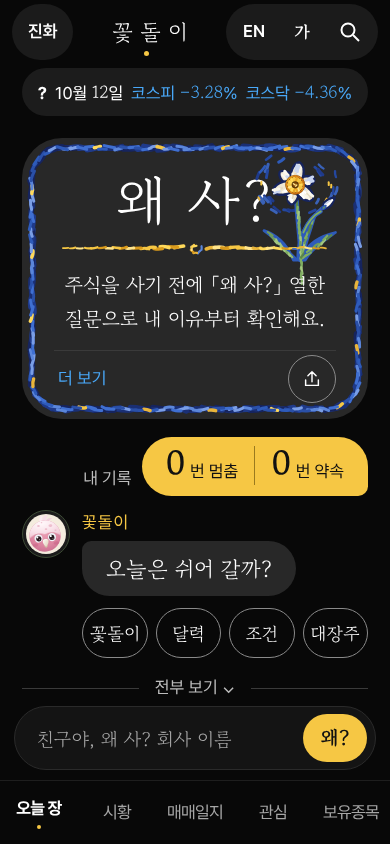
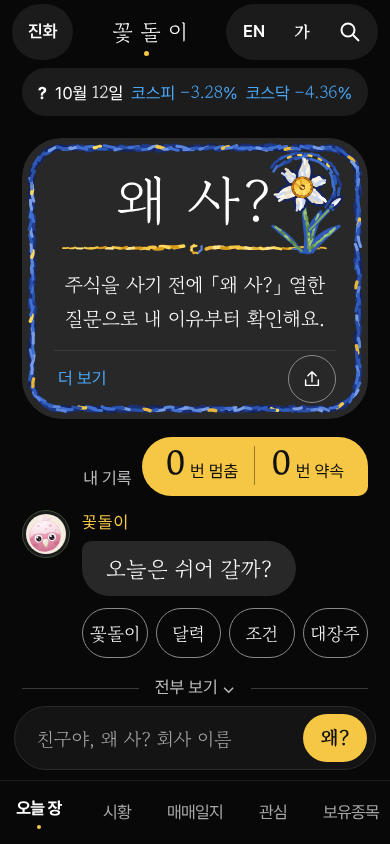
고흐 잣대 석 장 끝 — 별 밤 · 붓 자국 · 목판화
Claude-Session: https://claude.ai/code/session_01NCpyR4ELc71hqitZJpUS2Z

Changed region(s): [[0.6462, 0.154, 0.8923, 0.3389]]

diff --git a/docs/design/kakao-2026-10-19/mock/g2.html b/docs/design/kakao-2026-10-19/mock/g2.html
@@ -40,7 +40,7 @@ button,input{font:inherit;color:inherit;background:none;border:0}
 .plate .frame>*:not(.brush){position:relative}
 .plate .big{display:block;font-size:56px;line-height:1;color:#FFFFFF;letter-spacing:.04em}
 .plate .head{position:relative}
-.plate .flower{position:absolute;right:-18px;bottom:15px;width:92px;height:92px;overflow:visible}
+.plate .flower{position:absolute;right:-20px;bottom:2px;width:100px;height:100px;z-index:1;overflow:visible}
 .plate .rule{display:block;height:16px;margin:12px auto 12px;position:relative}
 .plate .rule svg{position:absolute;inset:0;width:100%;height:100%;overflow:visible}
 .plate p[data-ess="1"]{font-size:20px;line-height:1.7;color:#FFFFFF;word-break:keep-all;max-width:15.5em;margin:0 auto}
@@ -114,7 +114,7 @@ button,input{font:inherit;color:inherit;background:none;border:0}
   .plate .frame{padding:18px 12px 0}
   .plate .big{font-size:42px}
   .plate .rule{margin:14px auto 12px}
-  .plate .flower{width:70px;height:70px;right:-8px;bottom:14px}
+  .plate .flower{width:78px;height:78px;right:-8px;bottom:2px}
   .plate p[data-ess="1"]{font-size:18px;line-height:1.5}
   .plate .foot{margin-top:12px}
   .gdr,.news ul{margin-left:0}
@@ -141,7 +141,7 @@ button,input{font:inherit;color:inherit;background:none;border:0}
     <div class="frame"><svg class="brush" aria-hidden="true" focusable="false"></svg>
       <div class="head">
         <span class="big serif">왜 사?</span>
-        <svg class="flower" viewBox="0 0 108106" aria-hidden="true" focusable="false"><g stroke-linecap="round" fill="none"><path d="M13.7 35.7Q13.5 32.5 14 29.1" stroke="#3F6FD1" stroke-width="3"/><path d="M16.2 26.2Q17.7 22.9 19.8 19.1" stroke="#2E5BBA" stroke-width="3.1"/><path d="M21.1 19.8Q22.8 17 26 14.2" stroke="#24479F" stroke-width="3.2"/><path d="M25.5 12Q28.5 9.4 31.9 7.5" stroke="#24479F" stroke-width="3.1"/><path d="M33.3 8.5Q36.9 7 39.4 5.3" stroke="#2E5BBA" stroke-width="2.9"/><path d="M40.5 4.1Q43.7 2.5 47 2.2" stroke="#3F6FD1" stroke-width="2.9"/><path d="M49.4 5Q52.9 4.4 56.5 5.4" stroke="#24479F" stroke-width="3"/><path d="M56 4.8Q59.4 5 63 6.6" stroke="#3F6FD1" stroke-width="2.8"/><path d="M65.8 6.6Q68.9 9.5 72.1 11.5" stroke="#3F6FD1" stroke-width="3"/><path d="M73.2 11.7Q75.7 14.1 77.6 16.9" stroke="#3F6FD1" stroke-width="3"/><path d="M79 16Q82.3 18.7 83.9 22.9" stroke="#3F6FD1" stroke-width="2.6"/><path d="M82.3 24.9Q83.8 28.3 83.7 31.2" stroke="#3F6FD1" stroke-width="2.9"/><path d="M86.5 30.8Q87.8 35.2 85.9 39.5" stroke="#2E5BBA" stroke-width="3.1"/><path d="M83.6 36.9Q82.6 40.3 82.5 43.5" stroke="#3F6FD1" stroke-width="3"/></g><g stroke-linecap="round" fill="none"><path d="M82.4 46.1Q82 49.5 78.7 54" stroke="#3F6FD1" stroke-width="2.7"/><path d="M80.6 53.4Q78.1 56.8 75.9 60.7" stroke="#24479F" stroke-width="2.7"/><path d="M10.7 34.7Q12.2 30.2 11.3 26" stroke="#2E5BBA" stroke-width="2.7"/><path d="M9.9 22.3Q11.7 19 14.8 14.9" stroke="#24479F" stroke-width="3.1"/><path d="M17.6 13.7Q19.6 11.1 22.1 8" stroke="#24479F" stroke-width="3.1"/><path d="M24.7 6.6Q28.5 5.9 31 3" stroke="#1F3A8A" stroke-width="2.7"/><path d="M33.6 -0.2Q36.8 -0.7 40 -1.6" stroke="#1F3A8A" stroke-width="3"/><path d="M55.1 -0.6Q58.2 0 61.4 0.6" stroke="#24479F" stroke-width="3"/><path d="M67.1 1.7Q70 3.8 72.2 5" stroke="#24479F" stroke-width="2.8"/><path d="M74.1 5.9Q76.2 9.2 79.4 11" stroke="#2E5BBA" stroke-width="2.6"/><path d="M85.1 14.6Q85.9 17.7 87.5 20.2" stroke="#24479F" stroke-width="3.1"/><path d="M86.4 21.4Q87.5 24.7 89.1 27.2" stroke="#1F3A8A" stroke-width="2.7"/><path d="M89.4 30.6Q88.4 34.5 90.2 38.5" stroke="#24479F" stroke-width="2.7"/><path d="M91.2 43.1Q89.5 46.3 89.3 50.1" stroke="#1F3A8A" stroke-width="2.6"/></g><g stroke-linecap="round" fill="none"><path d="M88.8 51.8Q87.9 55.1 85.7 57.4" stroke="#24479F" stroke-width="2.7"/><path d="M18.3 16.7Q18.8 15.4 20.2 14.2" stroke="#F6C744" stroke-width="2.4"/><path d="M26.5 8.5Q27.7 8 29.1 6.7" stroke="#F6C744" stroke-width="2.4"/><path d="M37.2 3.1Q38.8 2.6 40.2 2.2" stroke="#FFD95A" stroke-width="2.4"/><path d="M49.1 1Q50.7 1.4 52.3 1.1" stroke="#FFD95A" stroke-width="2.4"/><path d="M61.1 2.5Q62.6 2.8 64.1 3.5" stroke="#FFD95A" stroke-width="2.4"/></g><g stroke-linecap="round"><path d="M51.5 54C53 81 57 106 56106" stroke="#2E5BBA" stroke-width="5.2" fill="none"/><path d="M48 106C40 90 28 82 18 78C30 88 38 96 52 106Z" fill="#2E5BBA" stroke="#2E5BBA" stroke-width="3" stroke-linejoin="round"/><path d="M56 106C62 90 74 82 90 78C78 88 68 96 61 106Z" fill="#2E5BBA" stroke="#2E5BBA" stroke-width="3" stroke-linejoin="round"/><path d="M53 106C52 88 58 74 70 62C67 76 61 88 58 106Z" fill="#2E5BBA" stroke="#2E5BBA" stroke-width="3" stroke-linejoin="round"/></g><g stroke-linecap="round" fill="none"><path d="M51.9 54.5Q51.7 58 51.9 61.5" stroke="#5A8748" stroke-width="2.6"/><path d="M52.9 57.4Q51.8 60.8 52.6 64.4" stroke="#7FAE62" stroke-width="2.6"/><path d="M53.6 60.3Q52.5 63.8 53.7 67.2" stroke="#5A8748" stroke-width="2.6"/><path d="M52.9 63.2Q52.4 66.7 53.8 70.1" stroke="#8DB86E" stroke-width="2.6"/><path d="M54.8 66Q55.1 69.6 53.9 73" stroke="#7FAE62" stroke-width="2.6"/><path d="M54.5 68.9Q54.1 72.4 55.3 75.9" stroke="#A3C77F" stroke-width="2.6"/><path d="M55.3 71.8Q54.3 75.2 55.2 78.7" stroke="#5A8748" stroke-width="2.6"/><path d="M55.6 74.6Q56 78.1 56.1 81.6" stroke="#7FAE62" stroke-width="2.6"/><path d="M55.5 77.5Q54.4 81 55.3 84.5" stroke="#8DB86E" stroke-width="2.6"/><path d="M56.1 80.4Q56.9 83.9 55.8 87.4" stroke="#A3C77F" stroke-width="2.6"/><path d="M56.4 83.3Q57.2 86.6 57.5 90.2" stroke="#6E9B5A" stroke-width="2.6"/><path d="M57.4 86.1Q57.7 89.5 56.6 93.1" stroke="#6E9B5A" stroke-width="2.6"/><path d="M56.9 89Q56.9 92.4 57.6 96" stroke="#6E9B5A" stroke-width="2.6"/><path d="M57.7 91.9Q58.5 95.4 57.5 98.9" stroke="#7FAE62" stroke-width="2.6"/></g><g stroke-linecap="round" fill="none"><path d="M58.1 94.8Q57.4 98.2 57.2 101.7" stroke="#5A8748" stroke-width="2.6"/><path d="M58 97.6Q58.8 101.2 57.5 104.6" stroke="#5A8748" stroke-width="2.6"/><path d="M48 103.2Q45.3 100.7 43.5 98.6" stroke="#8DB86E" stroke-width="2.4"/><path d="M45.4 101.4Q42.2 99.1 40.2 97.4" stroke="#A3C77F" stroke-width="2.4"/><path d="M41.5 98.9Q38.6 95.8 37.1 94.1" stroke="#A3C77F" stroke-width="2.4"/><path d="M38.9 95.9Q37 93.3 34.1 91.5" stroke="#A3C77F" stroke-width="2.4"/><path d="M37.1 92.9Q34 91.6 31.9 89" stroke="#7FAE62" stroke-width="2.4"/><path d="M34.3 90.1Q31.3 87.4 28.9 86.5" stroke="#6E9B5A" stroke-width="2.4"/><path d="M30.9 87.4Q27.7 85.5 25.8 83.4" stroke="#6E9B5A" stroke-width="2.4"/><path d="M27.1 82.7Q24.2 81.4 22.1 78.5" stroke="#5A8748" stroke-width="2.4"/><path d="M56 102.6Q59 101 61.2 98.6" stroke="#5A8748" stroke-width="2.4"/><path d="M60.7 101.4Q63.8 99.6 65.5 97" stroke="#7FAE62" stroke-width="2.4"/><path d="M65 98.3Q67.1 95.5 70.1 94.3" stroke="#A3C77F" stroke-width="2.4"/><path d="M67.9 95.5Q70.2 93.3 72.8 91.1" stroke="#5A8748" stroke-width="2.4"/></g><g stroke-linecap="round" fill="none"><path d="M70.2 91.5Q72 88.6 74.4 86.5" stroke="#8DB86E" stroke-width="2.4"/><path d="M74.8 88.8Q77.5 86.8 79 83.8" stroke="#6E9B5A" stroke-width="2.4"/><path d="M76.5 87.2Q79.5 85.5 81.2 82.7" stroke="#5A8748" stroke-width="2.4"/><path d="M79.9 85Q82 81.9 84.3 80.2" stroke="#7FAE62" stroke-width="2.4"/><path d="M54.7 103Q56.8 100.3 57.4 97.1" stroke="#8DB86E" stroke-width="2.4"/><path d="M57.4 97.3Q59 94.4 58.9 91" stroke="#8DB86E" stroke-width="2.4"/><path d="M59.2 92Q61.4 89.4 62.2 86.2" stroke="#A3C77F" stroke-width="2.4"/><path d="M62.4 87.6Q62.7 84.7 63.9 81.3" stroke="#7FAE62" stroke-width="2.4"/><path d="M61.7 82.7Q62.8 79.9 64.1 76.7" stroke="#A3C77F" stroke-width="2.4"/><path d="M65.5 75.8Q65.1 72.7 66.9 69.4" stroke="#6E9B5A" stroke-width="2.4"/><path d="M66.4 71.8Q68.5 68.6 69.3 66" stroke="#A3C77F" stroke-width="2.4"/></g><g stroke-linecap="round"><path d="M51 38.8C64.6 41.8 74.4 33.2 74.4 27.1C70.5 22.4 57.4 22.1 49 33.2Z" fill="#EFE7D2" stroke="#16245E" stroke-width="2.8" stroke-linejoin="round"/><path d="M54.6 37.8Q58.5 37.3 62 36.5" stroke="#FBF8EE" stroke-width="2.5"/><path d="M63.1 29.3Q65.8 28.3 68.3 26.2" stroke="#FFFFFF" stroke-width="2.6"/><path d="M66.2 27.7Q68.8 25.2 71.9 24.5" stroke="#F7F3E8" stroke-width="2.6"/><path d="M59.3 31.8Q62.3 31.7 65.2 29.9" stroke="#E6DCC2" stroke-width="2.7"/><path d="M67.9 28.6Q71.7 26.7 75.2 27.1" stroke="#E6DCC2" stroke-width="2.8"/><path d="M57.1 28.6Q59.7 27.2 62.1 26.9" stroke="#C9D6F2" stroke-width="2.5"/><path d="M57 29.8Q59.4 29.4 62.5 27.8" stroke="#FBF8EE" stroke-width="2.8"/><path d="M69.1 30.1Q71.8 29.8 74.3 29.6" stroke="#FFFFFF" stroke-width="2.4"/><path d="M57.7 32.8Q60.9 32.5 64.4 31.5" stroke="#FFFFFF" stroke-width="2.9"/><path d="M64.9 28Q67.7 25.8 70.1 24.9" stroke="#FBF8EE" stroke-width="2.9"/><path d="M69.2 31.7Q72.3 30.7 75.8 30.3" stroke="#C9D6F2" stroke-width="2.4"/><path d="M64 30.4Q67.6 29.4 71 27.6" stroke="#C9D6F2" stroke-width="2.7"/><path d="M47 35.5C37.7 45.8 40.4 58.7 45.7 61.6C51.8 60.5 58.4 49.3 53 36.5Z" fill="#EFE7D2" stroke="#16245E" stroke-width="2.8" stroke-linejoin="round"/></g><g stroke-linecap="round"><path d="M48.8 45.4Q48.3 48.3 49.2 51.3" stroke="#C9D6F2" stroke-width="2.6"/><path d="M47.7 47.6Q47.9 50.3 46.4 52.8" stroke="#E6DCC2" stroke-width="2.4"/><path d="M50.4 51Q49.5 54.3 48.3 57.9" stroke="#FFFFFF" stroke-width="2.7"/><path d="M48.8 44.8Q49.3 47.7 48.5 50.7" stroke="#FFFFFF" stroke-width="2.5"/><path d="M51.2 52Q50.2 54.4 49.9 57" stroke="#FBF8EE" stroke-width="2.4"/><path d="M44 49.2Q44.1 52.1 43.6 54.8" stroke="#C9D6F2" stroke-width="2.4"/><path d="M52.5 43.9Q52.8 47.1 53.2 50.2" stroke="#FFFFFF" stroke-width="3.1"/><path d="M45.5 41.2Q45.1 44.4 43 47.5" stroke="#FBF8EE" stroke-width="3.1"/><path d="M49.4 47.7Q49.1 50.7 49.7 53.7" stroke="#FBF8EE" stroke-width="2.9"/><path d="M46.1 54.2Q45.7 57.2 46.4 60.1" stroke="#FBF8EE" stroke-width="3.1"/><path d="M45.9 46.1Q46.5 49.2 44.8 52.4" stroke="#E6DCC2" stroke-width="2.3"/><path d="M48.4 48.2Q48.4 51.3 48.5 54.4" stroke="#C9D6F2" stroke-width="2.4"/><path d="M51.9 33.7C47.4 20.5 34.9 16.6 29.7 19.8C27.7 25.6 34.3 36.9 48.1 38.3Z" fill="#EFE7D2" stroke="#16245E" stroke-width="2.8" stroke-linejoin="round"/><path d="M48.7 30.3Q46.8 27.1 44.6 25" stroke="#FFFFFF" stroke-width="3"/></g><g stroke-linecap="round"><path d="M45.3 32.6Q41.8 31.4 39.6 28.7" stroke="#C9D6F2" stroke-width="2.8"/><path d="M36.3 22.7Q34.8 20.6 32.6 18.9" stroke="#E6DCC2" stroke-width="2.7"/><path d="M41.4 33.1Q38.8 31.1 35.7 30.8" stroke="#FBF8EE" stroke-width="3"/><path d="M36.8 23.4Q34.1 21.1 31.4 19.4" stroke="#FBF8EE" stroke-width="2.9"/><path d="M38.7 25.6Q35.2 24 32.5 21.8" stroke="#C9D6F2" stroke-width="2.9"/><path d="M47.2 29.1Q45.2 28 42.5 25.5" stroke="#FBF8EE" stroke-width="3"/><path d="M40 24.4Q36.4 23.3 34.1 21" stroke="#FFFFFF" stroke-width="2.6"/><path d="M43.2 26Q40.5 22.8 38.8 21.1" stroke="#E6DCC2" stroke-width="2.3"/><path d="M43.8 34.5Q41.2 32.2 39.2 31" stroke="#FFFFFF" stroke-width="3.1"/><path d="M43.7 25.6Q41.6 23.4 39.8 22.3" stroke="#E6DCC2" stroke-width="3"/><path d="M39.2 25.8Q37.5 24.4 35.1 21.6" stroke="#C9D6F2" stroke-width="3"/><path d="M52.9 36.6C64.3 25 61.6 10.1 55.6 6.5C48.7 7.7 40.7 20.5 47.1 35.4Z" fill="#EFE7D2" stroke="#16245E" stroke-width="2.8" stroke-linejoin="round"/><path d="M51.4 22.8Q52 19.3 52.6 16" stroke="#F7F3E8" stroke-width="2.7"/><path d="M55.8 17.8Q57.2 15.1 56.8 12.3" stroke="#E6DCC2" stroke-width="2.8"/></g><g stroke-linecap="round"><path d="M52.8 26Q52.9 22.6 54.4 19.6" stroke="#FFFFFF" stroke-width="2.8"/><path d="M52.7 25.6Q53.8 22.2 55.3 19.5" stroke="#F7F3E8" stroke-width="2.6"/><path d="M46.7 27.9Q46.5 24.9 46.8 22" stroke="#FBF8EE" stroke-width="2.4"/><path d="M55.2 30.7Q55.2 27.8 56.4 25" stroke="#C9D6F2" stroke-width="2.4"/><path d="M52.4 28.6Q54.2 25.4 54.2 21.9" stroke="#E6DCC2" stroke-width="2.9"/><path d="M52.1 30.3Q52.7 27.3 54.4 23.5" stroke="#C9D6F2" stroke-width="2.8"/><path d="M46.7 31Q46.7 27.5 46.4 23.9" stroke="#FBF8EE" stroke-width="3"/><path d="M55.5 22.1Q57.1 18.5 56.4 15.1" stroke="#E6DCC2" stroke-width="2.8"/><path d="M53.4 32.2Q53.3 29.2 55.2 26" stroke="#FBF8EE" stroke-width="2.9"/><path d="M56.4 12.3Q57.7 9.4 58.5 6.3" stroke="#C9D6F2" stroke-width="2.5"/><path d="M48.2 38.4C53.4 53.7 67.8 58.1 73.8 54.3C75.9 47.6 68 34.7 51.8 33.6Z" fill="#EFE7D2" stroke="#16245E" stroke-width="2.8" stroke-linejoin="round"/><path d="M58.4 37.7Q61.2 39.5 62.9 41.4" stroke="#E6DCC2" stroke-width="3.1"/><path d="M63.8 41.3Q67.4 43.4 69.9 44.9" stroke="#F7F3E8" stroke-width="2.6"/><path d="M63.1 41.3Q64.6 43.1 67 44.5" stroke="#FBF8EE" stroke-width="3"/></g><g stroke-linecap="round"><path d="M62.4 49.3Q65.7 50.5 67.8 53.3" stroke="#FFFFFF" stroke-width="2.7"/><path d="M54 39.9Q56.6 40.7 58.8 42.5" stroke="#FBF8EE" stroke-width="2.6"/><path d="M63.7 48.5Q66.6 51.2 68.7 53.7" stroke="#C9D6F2" stroke-width="2.4"/><path d="M59.1 44.3Q61.8 45.9 64.3 48.1" stroke="#C9D6F2" stroke-width="3"/><path d="M69 51.8Q70.4 54.1 72.5 56.2" stroke="#C9D6F2" stroke-width="3.1"/><path d="M61.7 49.5Q63.9 51.6 66.7 53.1" stroke="#FBF8EE" stroke-width="2.7"/><path d="M65.3 43.1Q68.4 45.6 71.6 46" stroke="#FFFFFF" stroke-width="2.7"/><path d="M50.3 42.5Q51.5 44.3 54.2 47.5" stroke="#C9D6F2" stroke-width="3"/><path d="M66.8 47.3Q69.3 48.8 70.8 50.8" stroke="#C9D6F2" stroke-width="2.6"/><path d="M48.8 33.2C32.9 30.2 22 40.7 22.4 47.7C27.2 52.8 42.3 52.3 51.2 38.8Z" fill="#EFE7D2" stroke="#16245E" stroke-width="2.8" stroke-linejoin="round"/><path d="M31.9 43.7Q28.3 44.9 25 45.5" stroke="#FBF8EE" stroke-width="2.8"/><path d="M28.6 45.8Q26.8 46.9 24.1 48.2" stroke="#FFFFFF" stroke-width="2.4"/><path d="M33.4 45Q31 46.2 29.5 48.3" stroke="#C9D6F2" stroke-width="2.9"/><path d="M27.7 43.9Q24.7 44.9 21.5 46" stroke="#F7F3E8" stroke-width="2.4"/></g><g stroke-linecap="round"><path d="M36.2 41.2Q33 43.2 30.3 43.1" stroke="#F7F3E8" stroke-width="2.9"/><path d="M44.7 36.8Q42 38 39.2 37.5" stroke="#C9D6F2" stroke-width="2.3"/><path d="M37.1 39.9Q34 40 31.4 41.7" stroke="#FFFFFF" stroke-width="3"/><path d="M38.4 42Q35.4 44.7 32.9 45.6" stroke="#F7F3E8" stroke-width="2.4"/><path d="M34.3 38Q31.7 38.8 27.9 41.4" stroke="#FBF8EE" stroke-width="2.5"/><path d="M35 44.7Q32 45.2 29.7 47" stroke="#E6DCC2" stroke-width="2.7"/><path d="M26.5 42.8Q24.4 44.1 21.6 45.6" stroke="#E6DCC2" stroke-width="2.7"/><path d="M42.6 40.5Q39.7 42.6 36.1 43.1" stroke="#C9D6F2" stroke-width="2.6"/></g><g stroke-linecap="round" fill="none"><circle cx="50" cy="36" r="10.5" fill="#F6C744" stroke="#5A3606" stroke-width="2.6"/><path d="M54.1 36.4Q56.2 36.4 58.3 35.7" stroke="#F6C744" stroke-width="2.3"/><path d="M53.6 38.2Q55.4 39.1 57.6 39.2" stroke="#FFE48A" stroke-width="2.3"/><path d="M52.6 39.2Q53.6 41.2 55.1 42.5" stroke="#E9A62A" stroke-width="2.3"/><path d="M51.2 39.9Q51.3 42.1 52 44.1" stroke="#FFE48A" stroke-width="2.3"/><path d="M49 40Q48.8 41.9 47.5 43.9" stroke="#FFE48A" stroke-width="2.3"/><path d="M47.8 39.5Q46 41.1 44.7 42.3" stroke="#FFD95A" stroke-width="2.3"/><path d="M46.3 37.7Q44.3 39.2 42.5 39.6" stroke="#FFD95A" stroke-width="2.3"/><path d="M45.9 35.7Q43.9 36 41.7 36.4" stroke="#FFD95A" stroke-width="2.3"/><path d="M46.2 34.3Q44.1 33.2 42.8 31.9" stroke="#FFD95A" stroke-width="2.3"/><path d="M46.9 33.2Q45.8 31.1 44.5 29.8" stroke="#FFE48A" stroke-width="2.3"/><path d="M49.2 32Q49.6 29.9 49.2 27.8" stroke="#FFD95A" stroke-width="2.3"/><path d="M51.5 32.2Q51.5 30.3 52.4 28.1" stroke="#FFE48A" stroke-width="2.3"/><path d="M52.5 32.8Q53.5 31.1 55.1 29.4" stroke="#FFD95A" stroke-width="2.3"/></g><g stroke-linecap="round" fill="none"><path d="M53.7 34.1Q55.7 34 57.7 33.1" stroke="#F6C744" stroke-width="2.3"/></g><g stroke-linecap="round" fill="none"><path d="M60.3 34.3Q59.7 36 60.3 37.7" stroke="#E39A1E" stroke-width="2"/><path d="M59.8 39.7Q58.9 41.2 58.1 42.6" stroke="#E39A1E" stroke-width="2"/><path d="M56.6 44.1Q55.4 44.9 53.7 45.8" stroke="#D9821A" stroke-width="2"/><path d="M51.7 46.3Q50 45.9 48.3 46.3" stroke="#E39A1E" stroke-width="2"/><path d="M46.3 45.8Q45.1 45.3 43.4 44.1" stroke="#E39A1E" stroke-width="2"/><path d="M41.9 42.6Q41.4 41.3 40.2 39.7" stroke="#D9821A" stroke-width="2"/><path d="M39.7 37.7Q39.6 36 39.7 34.3" stroke="#E39A1E" stroke-width="2"/><path d="M40.2 32.3Q40.9 30.6 41.9 29.4" stroke="#E39A1E" stroke-width="2"/><path d="M43.4 27.9Q44.8 27.3 46.3 26.2" stroke="#E39A1E" stroke-width="2"/><path d="M48.3 25.7Q50 25.3 51.7 25.7" stroke="#D9821A" stroke-width="2"/><path d="M53.7 26.2Q55.2 27.2 56.6 27.9" stroke="#C86E12" stroke-width="2"/><path d="M58.1 29.4Q59 30.9 59.8 32.3" stroke="#E39A1E" stroke-width="2"/><circle cx="50" cy="36" r="2.4" fill="#C86E12" stroke="#5A3606" stroke-width="1.2"/><path d="M48.1 34.8Q49.2 35.4 49.9 36" stroke="#FFE48A" stroke-width="1.6"/></g><g stroke-linecap="round" fill="none"><path d="M50.5 37.5Q51.4 36.8 51.9 36.1" stroke="#FFE48A" stroke-width="1.4"/></g><g stroke-linecap="round"><path d="M58 82C64 76 70 69 78 61" stroke="#2E5BBA" stroke-width="4.4" fill="none"/><path d="M58 82C64 76 70 69 78 61" stroke="#7FAE62" stroke-width="2" fill="none"/><g transform="translate(80 58) rotate(47)"><path d="M0 0C4.6 -3 5.2 -10 0 -18C-5.2 -10 -4.6 -3 0 0Z" fill="#EFE7D2" stroke="#16245E" stroke-width="2.4" stroke-linejoin="round"/><path d="M0 -3Q1.2 -8 .4 -14" stroke="#FFFFFF" stroke-width="2.2" fill="none"/><path d="M-1.8 -5Q-2 -9 -1 -12" stroke="#C9D6F2" stroke-width="1.8" fill="none"/><path d="M0 1C2 -.4 2.2 -3 0 -5C-2.2 -3 -2 -.4 0 1Z" fill="#6E9B5A" stroke="#2E5BBA" stroke-width="1.4"/></g></g></svg>
+        <svg class="flower" viewBox="0 0 108 108" aria-hidden="true" focusable="false"><g stroke-linecap="round" fill="none"><path d="M19 18.8Q20.5 16.3 22.7 13.2" stroke="#3F6FD1" stroke-width="3"/><path d="M24.9 13.1Q27.9 11.2 31.3 8.4" stroke="#2E5BBA" stroke-width="3.1"/><path d="M30.6 10.5Q33.5 8.9 37.3 7.2" stroke="#24479F" stroke-width="3.2"/><path d="M35.9 5.7Q39.5 4.2 43.4 3.7" stroke="#24479F" stroke-width="3.1"/><path d="M42.4 5.2Q46 4.7 49.1 3.8" stroke="#2E5BBA" stroke-width="2.9"/><path d="M48.3 2.9Q51.7 2 55.1 2.5" stroke="#3F6FD1" stroke-width="2.9"/><path d="M54.7 5.3Q58.1 5.2 61.6 6.8" stroke="#24479F" stroke-width="3"/><path d="M59.2 5.4Q62.5 6 66 7.9" stroke="#3F6FD1" stroke-width="2.8"/><path d="M66.8 7.1Q69.9 10.1 72.9 12.2" stroke="#3F6FD1" stroke-width="3"/><path d="M72.4 11Q74.9 13.4 76.9 16.1" stroke="#3F6FD1" stroke-width="3"/><path d="M76.8 13.6Q80.4 16 82.3 20" stroke="#3F6FD1" stroke-width="2.6"/><path d="M80 20.4Q82 23.7 82.4 26.4" stroke="#3F6FD1" stroke-width="2.9"/><path d="M84.5 23.6Q86.7 27.8 85.8 32.2" stroke="#2E5BBA" stroke-width="3.1"/><path d="M82.7 28.3Q82.6 31.5 83.4 34.9" stroke="#3F6FD1" stroke-width="3"/></g><g stroke-linecap="round" fill="none"><path d="M84.3 35.3Q85.5 39.5 83.5 44" stroke="#3F6FD1" stroke-width="2.7"/><path d="M85.7 40.7Q84.8 44.9 84.3 49.3" stroke="#24479F" stroke-width="2.7"/><path d="M82.5 45.1Q80.7 48.5 79.9 52.3" stroke="#24479F" stroke-width="2.6"/><path d="M79.5 50.1Q76.2 54.7 75.1 57.7" stroke="#24479F" stroke-width="2.7"/><path d="M16.8 14.6Q18.7 11.2 21.8 8.1" stroke="#24479F" stroke-width="3.1"/><path d="M22.3 8.1Q25.8 5.4 28.5 3.2" stroke="#24479F" stroke-width="3"/><path d="M26.2 5.2Q30.9 2.6 34.5 1.8" stroke="#2E5BBA" stroke-width="3"/><path d="M35.9 1.6Q39.6 -0.2 43.3 -0.4" stroke="#2E5BBA" stroke-width="3.1"/><path d="M42.9 -0.5Q46.8 -1 50.5 -0.8" stroke="#24479F" stroke-width="2.9"/><path d="M52.1 -0.3Q55.9 -0.6 59.7 0.5" stroke="#2E5BBA" stroke-width="2.7"/><path d="M59.6 -0.3Q63.3 1.2 67.7 1.6" stroke="#2E5BBA" stroke-width="3.1"/><path d="M68.2 3.1Q72.1 4.6 74.5 7.8" stroke="#2E5BBA" stroke-width="3"/><path d="M72.6 6Q75.5 7 77.6 9.3" stroke="#2E5BBA" stroke-width="3"/><path d="M80 9.4Q82.1 12.6 84.9 14.9" stroke="#24479F" stroke-width="3.2"/></g><g stroke-linecap="round" fill="none"><path d="M84.8 16.7Q87.3 20.1 88.4 22.4" stroke="#2E5BBA" stroke-width="3.1"/><path d="M87.4 23.5Q89.2 27.4 89.8 31" stroke="#1F3A8A" stroke-width="2.7"/><path d="M91.2 31.5Q92 34.7 90.7 37.7" stroke="#1F3A8A" stroke-width="2.8"/><path d="M89.6 37.1Q89.4 41.4 88.9 45.8" stroke="#2E5BBA" stroke-width="3.1"/><path d="M90.2 47.8Q88.6 51.2 86.9 54.7" stroke="#24479F" stroke-width="2.8"/><path d="M87.4 53.4Q84.4 55.8 82.9 59.9" stroke="#2E5BBA" stroke-width="3"/><path d="M34.5 4.1Q35.8 3.3 37.5 2.9" stroke="#F6C744" stroke-width="2.4"/><path d="M45.5 1.3Q47.1 1.4 48.7 1" stroke="#FFD95A" stroke-width="2.4"/><path d="M56.8 1.6Q58.3 1.6 60 2.3" stroke="#FFD95A" stroke-width="2.4"/><path d="M67.6 4.9Q68.8 5.3 70.4 6.5" stroke="#F6C744" stroke-width="2.4"/><path d="M76.8 11.1Q77.6 12.3 78.9 13.4" stroke="#FFD95A" stroke-width="2.4"/></g><g stroke-linecap="round"><path d="M51.5 54C53 81 57 106 56 106" stroke="#2E5BBA" stroke-width="5.2" fill="none"/><path d="M48 106C40 90 28 82 18 78C30 88 38 96 52 106Z" fill="#2E5BBA" stroke="#2E5BBA" stroke-width="3" stroke-linejoin="round"/><path d="M56 106C62 90 74 82 90 78C78 88 68 96 61 106Z" fill="#2E5BBA" stroke="#2E5BBA" stroke-width="3" stroke-linejoin="round"/><path d="M53 106C52 88 58 74 70 62C67 76 61 88 58 106Z" fill="#2E5BBA" stroke="#2E5BBA" stroke-width="3" stroke-linejoin="round"/></g><g stroke-linecap="round" fill="none"><path d="M52.3 54.5Q51.3 58 52.2 61.5" stroke="#5A8748" stroke-width="2.6"/><path d="M52.7 57.4Q53.1 60.9 53.2 64.4" stroke="#7FAE62" stroke-width="2.6"/><path d="M52.8 60.3Q51.7 63.7 52.6 67.2" stroke="#8DB86E" stroke-width="2.6"/><path d="M53.5 63.1Q54.3 66.7 53.2 70.1" stroke="#A3C77F" stroke-width="2.6"/><path d="M54 66Q54.8 69.3 55.1 73" stroke="#6E9B5A" stroke-width="2.6"/><path d="M55.2 68.9Q55.5 72.2 54.3 75.9" stroke="#6E9B5A" stroke-width="2.6"/><path d="M54.9 71.8Q54.9 75.1 55.5 78.7" stroke="#6E9B5A" stroke-width="2.6"/><path d="M55.9 74.6Q56.7 78.1 55.7 81.6" stroke="#7FAE62" stroke-width="2.6"/><path d="M56.5 77.5Q55.8 80.9 55.6 84.5" stroke="#5A8748" stroke-width="2.6"/><path d="M56.6 80.4Q57.4 84 56.1 87.4" stroke="#5A8748" stroke-width="2.6"/><path d="M56.3 83.3Q57.2 86.7 56.9 90.2" stroke="#5A8748" stroke-width="2.6"/><path d="M57 86.1Q57.5 89.6 56.8 93.1" stroke="#A3C77F" stroke-width="2.6"/><path d="M56.7 89Q55.7 92.5 56.3 96" stroke="#5A8748" stroke-width="2.6"/><path d="M57.2 91.9Q57.6 95.5 58 98.9" stroke="#A3C77F" stroke-width="2.6"/></g><g stroke-linecap="round" fill="none"><path d="M57.7 94.8Q56.7 98.1 56.9 101.7" stroke="#7FAE62" stroke-width="2.6"/><path d="M57.6 97.6Q58.8 101 58.3 104.6" stroke="#7FAE62" stroke-width="2.6"/><path d="M49.3 104.5Q46.3 101.8 43.9 100.9" stroke="#6E9B5A" stroke-width="2.4"/><path d="M45.9 101.8Q42.7 99.8 40.8 97.8" stroke="#6E9B5A" stroke-width="2.4"/><path d="M42.1 97Q39.2 95.8 37.1 92.9" stroke="#5A8748" stroke-width="2.4"/><path d="M37.6 94.3Q35.9 91.6 33.2 89.6" stroke="#5A8748" stroke-width="2.4"/><path d="M36 92.7Q34.2 90.1 31.1 88.4" stroke="#7FAE62" stroke-width="2.4"/><path d="M33.9 90Q31.1 88.4 29.4 85.4" stroke="#A3C77F" stroke-width="2.4"/><path d="M30.5 86.8Q27.9 84.7 25.6 82.5" stroke="#5A8748" stroke-width="2.4"/><path d="M26.3 82.2Q23.4 81 20.9 78.6" stroke="#8DB86E" stroke-width="2.4"/><path d="M58 103.2Q60.6 101.2 62.1 98.1" stroke="#6E9B5A" stroke-width="2.4"/><path d="M59.7 101.6Q62.6 99.8 64.3 97" stroke="#5A8748" stroke-width="2.4"/><path d="M63.1 99.4Q65.1 96.3 67.5 94.6" stroke="#7FAE62" stroke-width="2.4"/><path d="M66.4 95.4Q69.5 94.2 71.7 91.7" stroke="#8DB86E" stroke-width="2.4"/></g><g stroke-linecap="round" fill="none"><path d="M70.5 92.3Q73.4 90.6 75 87.7" stroke="#8DB86E" stroke-width="2.4"/><path d="M74.2 88.9Q77.4 87.7 79.7 85.5" stroke="#A3C77F" stroke-width="2.4"/><path d="M78.8 87.1Q80.8 85.4 83.4 82.5" stroke="#7FAE62" stroke-width="2.4"/><path d="M79.9 84.2Q82.5 82.8 85.1 80.3" stroke="#A3C77F" stroke-width="2.4"/><path d="M57 101.5Q56.6 98.4 58.3 95.2" stroke="#6E9B5A" stroke-width="2.4"/><path d="M57.9 97.5Q60 94.3 60.8 91.7" stroke="#A3C77F" stroke-width="2.4"/><path d="M59.5 92.2Q61 89.1 61.3 85.9" stroke="#5A8748" stroke-width="2.4"/><path d="M61 87.2Q62.3 83.9 62.4 80.8" stroke="#7FAE62" stroke-width="2.4"/><path d="M62 82.2Q63.3 79 64.2 76.1" stroke="#A3C77F" stroke-width="2.4"/><path d="M64.5 76.9Q64.9 73.6 66.9 70.9" stroke="#5A8748" stroke-width="2.4"/><path d="M65 71.2Q66.5 68.1 67.4 65.1" stroke="#A3C77F" stroke-width="2.4"/></g><g stroke-linecap="round"><path d="M51 38.8C64.6 41.8 74.4 33.2 74.4 27C70.5 22.3 57.4 22.1 49 33.2Z" fill="#EFE7D2" stroke="#16245E" stroke-width="2.8" stroke-linejoin="round"/><path d="M64.5 33Q67.6 32.6 70.6 32.6" stroke="#C9D6F2" stroke-width="3"/><path d="M63.2 28Q65.2 26.9 67.6 25.3" stroke="#FFFFFF" stroke-width="3"/><path d="M56.4 32.1Q59.7 29.2 62.2 28.3" stroke="#FBF8EE" stroke-width="2.5"/><path d="M67 31.9Q70.5 32.6 74.3 30.8" stroke="#FFFFFF" stroke-width="2.4"/><path d="M60.3 30.4Q63 28.1 66.8 27.6" stroke="#FBF8EE" stroke-width="2.9"/><path d="M64.5 33.1Q67.3 32.1 69.6 30.5" stroke="#C9D6F2" stroke-width="2.6"/><path d="M62.1 28.3Q65.5 28.4 69.4 26.5" stroke="#FBF8EE" stroke-width="2.8"/><path d="M55.7 32.1Q58.5 31.3 61.5 30.2" stroke="#C9D6F2" stroke-width="2.7"/><path d="M63.8 28.4Q66.6 27 68.4 25.4" stroke="#F7F3E8" stroke-width="3"/><path d="M56.2 33.5Q58.5 32.1 60.9 31.8" stroke="#C9D6F2" stroke-width="2.7"/><path d="M55.6 35.4Q58.4 34.9 60.6 33.7" stroke="#FFFFFF" stroke-width="3"/><path d="M67.7 30.2Q71.3 29.3 74.6 28.5" stroke="#C9D6F2" stroke-width="2.5"/><path d="M47 35.6C38.2 46.3 41.4 59 46.9 61.8C52.8 60.4 59 48.9 53 36.4Z" fill="#EFE7D2" stroke="#16245E" stroke-width="2.8" stroke-linejoin="round"/></g><g stroke-linecap="round"><path d="M48.1 44Q48.2 46.4 46.9 49" stroke="#FFFFFF" stroke-width="3.1"/><path d="M47.1 50.7Q47.3 54.4 45.7 57.9" stroke="#F7F3E8" stroke-width="2.3"/><path d="M50.8 46.1Q51.9 48.8 51.7 51.5" stroke="#C9D6F2" stroke-width="2.7"/><path d="M51.4 50.6Q50.3 54.1 50 57.2" stroke="#C9D6F2" stroke-width="2.9"/><path d="M48.9 46.8Q48.6 49.5 48.8 52.2" stroke="#FBF8EE" stroke-width="2.6"/><path d="M45.6 53.9Q44.3 56.3 44.6 58.8" stroke="#C9D6F2" stroke-width="2.6"/><path d="M45.8 51.7Q46.5 55.1 44.8 58.5" stroke="#E6DCC2" stroke-width="2.6"/><path d="M49.4 40Q49.7 43 48.6 45.9" stroke="#E6DCC2" stroke-width="2.4"/><path d="M54.2 42.1Q53.5 45.2 53.6 48.4" stroke="#C9D6F2" stroke-width="2.9"/><path d="M49 54.3Q49.1 57.4 47.4 60" stroke="#FFFFFF" stroke-width="2.6"/><path d="M48.9 40.7Q47.9 43.2 47.7 46" stroke="#FFFFFF" stroke-width="2.3"/><path d="M46.6 54.5Q45 58.1 44.1 60.8" stroke="#C9D6F2" stroke-width="2.7"/><path d="M52 33.8C48.2 20.4 35.9 15.8 30.5 18.8C28.2 24.5 34.3 36.1 48 38.2Z" fill="#EFE7D2" stroke="#16245E" stroke-width="2.8" stroke-linejoin="round"/><path d="M38.1 22.9Q36.6 19.7 34.2 17.3" stroke="#FBF8EE" stroke-width="2.6"/></g><g stroke-linecap="round"><path d="M41.2 27.2Q39.4 25.2 36.9 22.3" stroke="#C9D6F2" stroke-width="2.4"/><path d="M39.8 31.5Q38.1 29.3 35.9 27.6" stroke="#C9D6F2" stroke-width="2.6"/><path d="M46.2 30.9Q44.2 29.4 43.1 26.9" stroke="#E6DCC2" stroke-width="2.9"/><path d="M43.6 31.7Q41.5 29.5 39.7 26.5" stroke="#FFFFFF" stroke-width="2.8"/><path d="M33.8 24.1Q31.5 23.1 28.1 20.7" stroke="#C9D6F2" stroke-width="2.5"/><path d="M46.6 28.9Q44.6 26.5 41.3 23.7" stroke="#FFFFFF" stroke-width="2.5"/><path d="M44.6 27.1Q43.2 24.1 40.3 21.8" stroke="#F7F3E8" stroke-width="2.8"/><path d="M47.6 32.8Q44.9 32.1 42.2 29.6" stroke="#FBF8EE" stroke-width="2.6"/><path d="M36 21.2Q34.5 18.3 32.2 16.3" stroke="#E6DCC2" stroke-width="2.8"/><path d="M43.7 29.3Q42.2 26 39.9 23.7" stroke="#C9D6F2" stroke-width="2.9"/><path d="M46.6 32.3Q44.2 30.4 40.9 27.6" stroke="#C9D6F2" stroke-width="2.4"/><path d="M53 36.5C64 24.6 61 9.8 54.8 6.4C47.9 7.7 40.3 20.7 47 35.5Z" fill="#EFE7D2" stroke="#16245E" stroke-width="2.8" stroke-linejoin="round"/><path d="M48.9 22.8Q47.9 20.2 48.4 17.7" stroke="#F7F3E8" stroke-width="2.7"/><path d="M52.2 24.2Q51.1 20.7 52 17.1" stroke="#F7F3E8" stroke-width="2.5"/></g><g stroke-linecap="round"><path d="M49.2 22.7Q49.6 19.6 50 16.3" stroke="#FBF8EE" stroke-width="2.9"/><path d="M49.8 17.8Q51.4 14.3 50.7 11" stroke="#E6DCC2" stroke-width="3"/><path d="M51.8 10.9Q51.9 8 51.2 5.1" stroke="#C9D6F2" stroke-width="3"/><path d="M51.5 26.8Q52.7 24.2 53.1 21.6" stroke="#C9D6F2" stroke-width="2.9"/><path d="M53.3 12.6Q53.5 9.1 52.7 5.8" stroke="#FBF8EE" stroke-width="2.7"/><path d="M52.3 31.8Q53.2 28.7 55.4 25.4" stroke="#E6DCC2" stroke-width="2.8"/><path d="M52.7 20.8Q52 17.2 52.3 13.7" stroke="#C9D6F2" stroke-width="2.8"/><path d="M54.2 12.4Q54.7 9.5 55.4 7" stroke="#E6DCC2" stroke-width="2.5"/><path d="M54.6 20.2Q55.5 17.6 56.6 15.3" stroke="#FBF8EE" stroke-width="2.5"/><path d="M47.6 25.4Q47.5 22.3 47.4 19.3" stroke="#C9D6F2" stroke-width="2.8"/><path d="M48.2 38.4C53.6 53.7 68.1 57.8 74 54C76 47.3 68 34.5 51.8 33.6Z" fill="#EFE7D2" stroke="#16245E" stroke-width="2.8" stroke-linejoin="round"/><path d="M57.6 36.9Q60.7 38.1 63.6 38.7" stroke="#F7F3E8" stroke-width="2.4"/><path d="M58.7 38.9Q61.9 40.6 64.2 43.1" stroke="#C9D6F2" stroke-width="2.8"/><path d="M62.9 44.5Q64.9 46.2 67.7 48.2" stroke="#C9D6F2" stroke-width="2.7"/></g><g stroke-linecap="round"><path d="M56.3 45.8Q57.7 49.1 60.9 51.6" stroke="#C9D6F2" stroke-width="2.5"/><path d="M62.5 46.4Q63.9 48.8 66.1 50.5" stroke="#E6DCC2" stroke-width="2.7"/><path d="M64.1 48.4Q66.6 48.8 69.2 50.9" stroke="#C9D6F2" stroke-width="2.9"/><path d="M59.3 48.4Q62 51.3 65.6 52.3" stroke="#E6DCC2" stroke-width="2.8"/><path d="M70.6 47.4Q73 48.5 75.2 51.1" stroke="#FFFFFF" stroke-width="2.9"/><path d="M59 41.4Q61.6 43.4 64.1 44.4" stroke="#F7F3E8" stroke-width="2.3"/><path d="M68.6 46.2Q71.9 47.6 74.2 49.4" stroke="#FFFFFF" stroke-width="2.8"/><path d="M55.8 36.9Q58 38 60.2 40.1" stroke="#C9D6F2" stroke-width="3.1"/><path d="M58.9 45.4Q61.6 46.6 63.9 48.9" stroke="#C9D6F2" stroke-width="2.5"/><path d="M48.9 33.2C33.1 29.5 21.8 39.6 21.9 46.6C26.5 51.9 41.6 52 51.1 38.8Z" fill="#EFE7D2" stroke="#16245E" stroke-width="2.8" stroke-linejoin="round"/><path d="M37.1 40.6Q33.9 42.1 31 42.8" stroke="#E6DCC2" stroke-width="2.8"/><path d="M30.5 46.1Q28.7 48.7 25.3 50.3" stroke="#F7F3E8" stroke-width="3.1"/><path d="M46 38.4Q43.2 38.6 39.8 40.4" stroke="#C9D6F2" stroke-width="2.6"/><path d="M29 44.1Q26.7 45 24 46.5" stroke="#FFFFFF" stroke-width="2.8"/></g><g stroke-linecap="round"><path d="M44.1 38Q41.6 39.2 39.1 38.7" stroke="#F7F3E8" stroke-width="3"/><path d="M28.5 42.9Q25.5 44.4 22.6 45.7" stroke="#C9D6F2" stroke-width="2.6"/><path d="M27.3 43.2Q23.8 43.5 20.2 43.9" stroke="#F7F3E8" stroke-width="2.3"/><path d="M43.3 37.2Q40.8 39.2 37.9 39.8" stroke="#C9D6F2" stroke-width="2.8"/><path d="M44.1 40.4Q40.6 43.5 38.3 44.8" stroke="#FBF8EE" stroke-width="2.9"/><path d="M33.1 38.6Q30.1 38.9 27.5 41.1" stroke="#FBF8EE" stroke-width="2.6"/><path d="M47.7 41.9Q44.3 43.2 41 44.3" stroke="#FFFFFF" stroke-width="2.8"/><path d="M30.8 41.8Q28.5 42.1 26 43.9" stroke="#C9D6F2" stroke-width="2.4"/></g><g stroke-linecap="round" fill="none"><circle cx="50" cy="36" r="10.5" fill="#F6C744" stroke="#5A3606" stroke-width="2.6"/><path d="M54.1 36.1Q56.2 35.4 58.3 36" stroke="#FFD95A" stroke-width="2.3"/><path d="M53.6 38.1Q55.7 38.7 57.6 39.2" stroke="#FFD95A" stroke-width="2.3"/><path d="M52.7 39.2Q54.3 40.9 54.7 42.8" stroke="#FFD95A" stroke-width="2.3"/><path d="M51.6 39.8Q51.8 42 52.2 44" stroke="#FFE48A" stroke-width="2.3"/><path d="M49 40Q47.7 41.9 47.1 43.8" stroke="#FFD95A" stroke-width="2.3"/><path d="M47 38.8Q46.1 40 44.4 42.1" stroke="#FFE48A" stroke-width="2.3"/><path d="M46.3 37.8Q44.6 38.8 42.6 39.7" stroke="#FFD95A" stroke-width="2.3"/><path d="M45.9 36.1Q43.8 35.3 41.7 35.3" stroke="#F6C744" stroke-width="2.3"/><path d="M46.1 34.6Q44.4 33.3 42.7 32.1" stroke="#E9A62A" stroke-width="2.3"/><path d="M47.5 32.8Q46 31.4 44.5 29.8" stroke="#FFD95A" stroke-width="2.3"/><path d="M48.7 32.1Q49.1 30.1 48.2 27.9" stroke="#E9A62A" stroke-width="2.3"/><path d="M50.5 31.9Q51.2 29.9 51.7 27.9" stroke="#F6C744" stroke-width="2.3"/><path d="M52.7 32.9Q53.6 31.2 55.4 29.7" stroke="#F6C744" stroke-width="2.3"/></g><g stroke-linecap="round" fill="none"><path d="M53.6 34Q55.8 32.8 57.6 32.6" stroke="#FFD95A" stroke-width="2.3"/></g><g stroke-linecap="round" fill="none"><path d="M60.3 34.3Q60.4 36 60.3 37.7" stroke="#C86E12" stroke-width="2"/><path d="M59.8 39.7Q59 41.1 58.1 42.6" stroke="#E39A1E" stroke-width="2"/><path d="M56.6 44.1Q55.2 44.5 53.7 45.8" stroke="#D9821A" stroke-width="2"/><path d="M51.7 46.3Q50 46.3 48.3 46.3" stroke="#E39A1E" stroke-width="2"/><path d="M46.3 45.8Q44.8 45 43.4 44.1" stroke="#D9821A" stroke-width="2"/><path d="M41.9 42.6Q41 41.2 40.2 39.7" stroke="#C86E12" stroke-width="2"/><path d="M39.7 37.7Q39.2 36 39.7 34.3" stroke="#D9821A" stroke-width="2"/><path d="M40.2 32.3Q40.9 31.1 41.9 29.4" stroke="#C86E12" stroke-width="2"/><path d="M43.4 27.9Q44.7 27.5 46.3 26.2" stroke="#D9821A" stroke-width="2"/><path d="M48.3 25.7Q50 26.1 51.7 25.7" stroke="#E39A1E" stroke-width="2"/><path d="M53.7 26.2Q55.2 26.8 56.6 27.9" stroke="#C86E12" stroke-width="2"/><path d="M58.1 29.4Q59.2 31 59.8 32.3" stroke="#E39A1E" stroke-width="2"/><circle cx="50" cy="36" r="2.4" fill="#C86E12" stroke="#5A3606" stroke-width="1.2"/><path d="M48.1 34.8Q48.9 35.3 49.9 36" stroke="#FFE48A" stroke-width="1.6"/></g><g stroke-linecap="round" fill="none"><path d="M50.5 37.5Q51.3 36.8 51.9 36.1" stroke="#FFE48A" stroke-width="1.4"/></g><g stroke-linecap="round"><path d="M58 82C64 76 70 69 78 61" stroke="#2E5BBA" stroke-width="4.4" fill="none"/><path d="M58 82C64 76 70 69 78 61" stroke="#7FAE62" stroke-width="2" fill="none"/><g transform="translate(80 58) rotate(47)"><path d="M0 0C4.6 -3 5.2 -10 0 -18C-5.2 -10 -4.6 -3 0 0Z" fill="#EFE7D2" stroke="#16245E" stroke-width="2.4" stroke-linejoin="round"/><path d="M0 -3Q1.2 -8 .4 -14" stroke="#FFFFFF" stroke-width="2.2" fill="none"/><path d="M-1.8 -5Q-2 -9 -1 -12" stroke="#C9D6F2" stroke-width="1.8" fill="none"/><path d="M0 1C2 -.4 2.2 -3 0 -5C-2.2 -3 -2 -.4 0 1Z" fill="#6E9B5A" stroke="#2E5BBA" stroke-width="1.4"/></g></g></svg>
         <span class="rule" aria-hidden="true"></span>
       </div>
       <p data-ess="1" class="serif">주식을 사기 전에 「왜 사?」 열한 질문으로 내 이유부터 확인해요.</p>

diff --git a/docs/design/kakao-2026-10-19/mock/g2.why.md b/docs/design/kakao-2026-10-19/mock/g2.why.md
@@ -1,0 +1,26 @@
+# g2 「붓 자국」 — 왜 이렇게 그렸나
+
+바탕 = d1 「설중화」 짜임 그대로 · 이름 꽃돌이 · 본질 세 줄 · 숫자 · 날짜 · 표시 그대로.
+바뀐 것 셋 = 수선화 · 본질 판 테두리 · 금 줄. 모두 짧고 굵은 붓 자국을 겹쳐 손으로 그렸다.
+
+## 왜? 다섯 번
+1. 왜 붓 자국인가? — 매끈한 선은 기계가 그린 티가 난다. 붓 자국은 사람 손이 한 번 머문 티가 난다.
+2. 왜 손이 머문 티가 필요한가? — 손으로 쓴 쪽지는 빨리 넘기지 않는다. 눈이 한 번 더 머문다.
+3. 왜 눈이 한 번 더 머물러야 하나? — 「왜 사?」 세 글자를 읽고 지나치지 않게 하려고.
+4. 왜 그 세 글자를 읽어야 하나? — 사는 이유를 내 말로 한 번 적어 보게 하려고.
+5. 그래서 이곳은 무엇인가? — **사기 전에 한 번 멈추게 하는 곳.** 수선화는 금 줄 위에 서 있다. 금 줄은 멈춤 선이다.
+
+## 그럴까?
+붓 자국이 많으면 오히려 시끄러워서 글을 덜 읽게 되지 않을까? — 그래서 붓은 판 둘레 · 금 줄 · 꽃 한 송이에만 두었다. 글 뒤에는 붓을 하나도 깔지 않았다.
+
+## 고흐에게서 가져온 것
+- 짧고 굵은 붓 자국을 나란히 겹치기 — 테두리는 짙은 남빛 붓 위에 밝은 파랑 붓을 엇갈려 얹었다. 그러데이션 · 흐림 · 그림자 없이 두꺼운 물감 맛을 냈다.
+- 굵은 윤곽선 — 흰 꽃잎은 짙은 남빛 선으로, 금빛 잔은 밤색 선으로, 잎은 코발트 선으로 둘렀다.
+- 마주 보는 색 — 남빛 붓 사이에 노랑 붓을 띄엄띄엄 넣었다. 둘 다 더 세 보인다.
+- 꽃 둘레 소용돌이 — 꽃 머리 둘레를 짧은 붓이 고리처럼 돈다. 금 줄 가운데도 작은 소용돌이 하나.
+- 그림 한 점을 베끼지 않았다. 이름 글자 · 서명도 넣지 않았다. 기법과 색과 붓 결만 배웠다.
+
+## 지킨 것
+- 붓 그림은 모두 장식(aria-hidden). 글 대비 · 단추 테두리 3:1 · 누름 48 그대로.
+- 검사 `check_white --mock` = 통과 22 · 실패 2(흰 바탕 · 글 #16181D 두 줄만 — 어두운 카톡 판이라 허락된 것).
+- 붓 자국은 묶음마다 열넷 아래로 나눴다(바둑판 셈에 안 걸리게). 테두리 · 금 줄은 판 크기에 맞춰 같은 씨앗으로 그려서 늘 같은 붓이 나온다.
